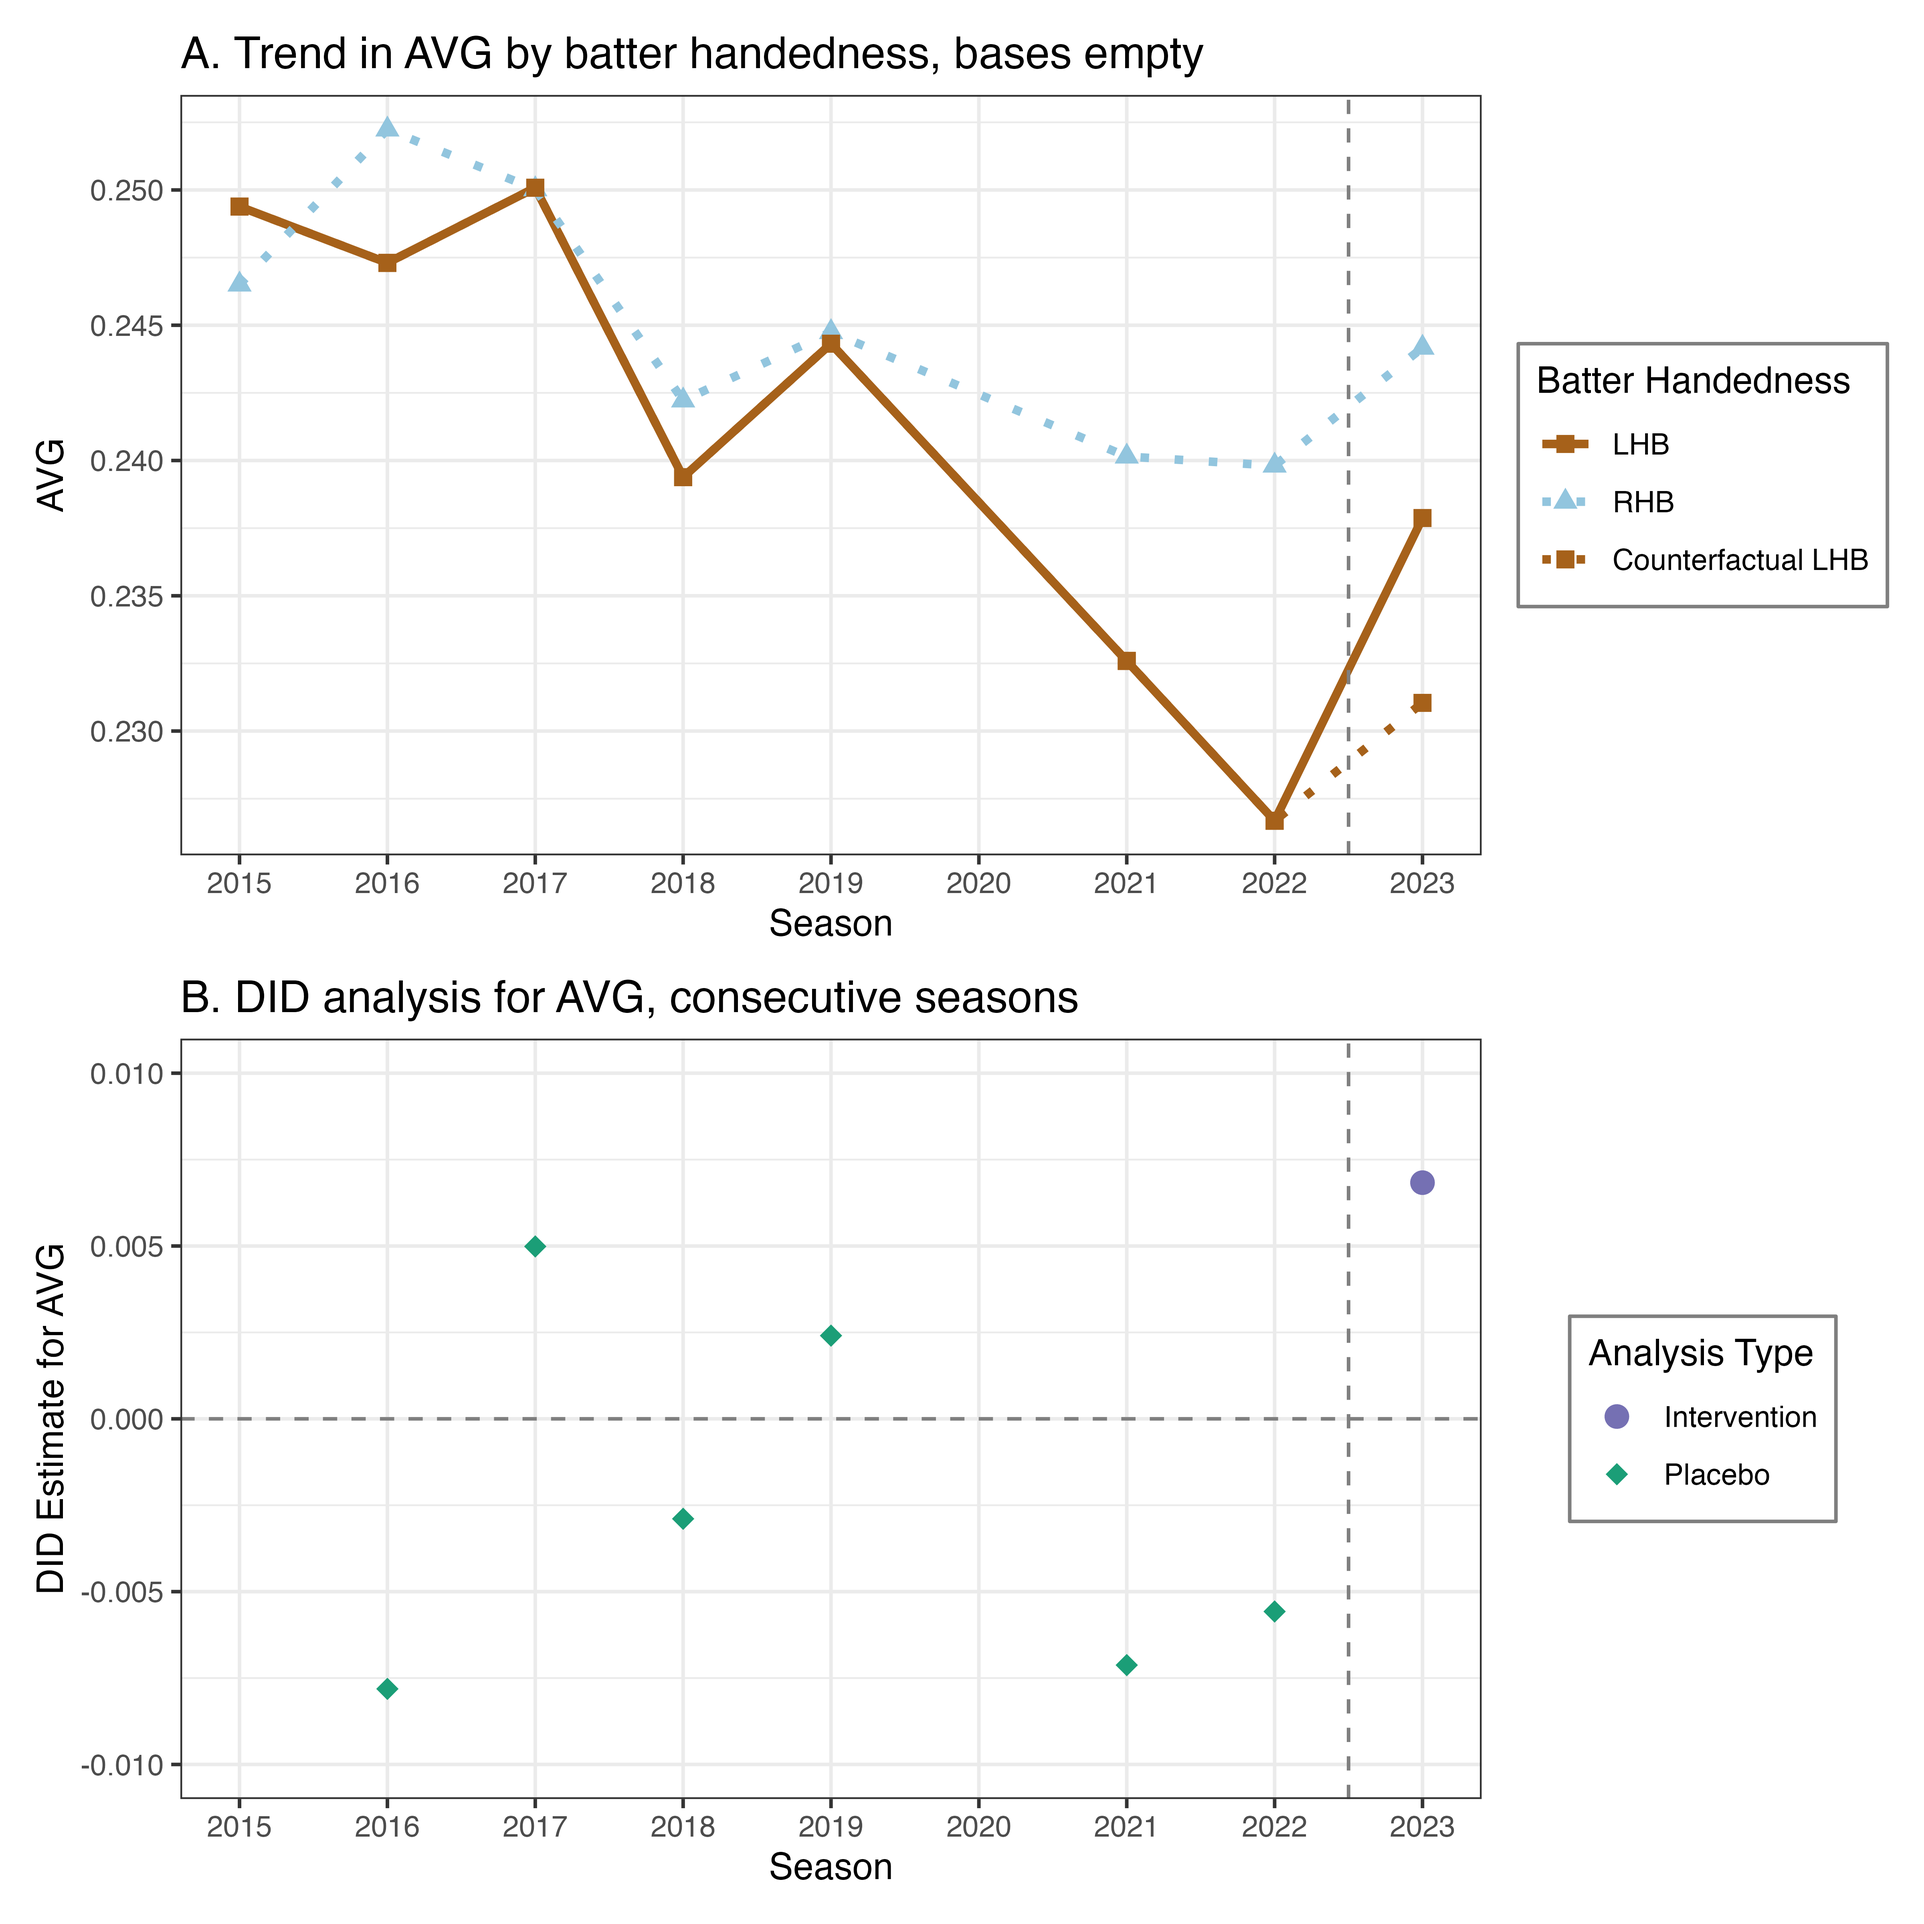
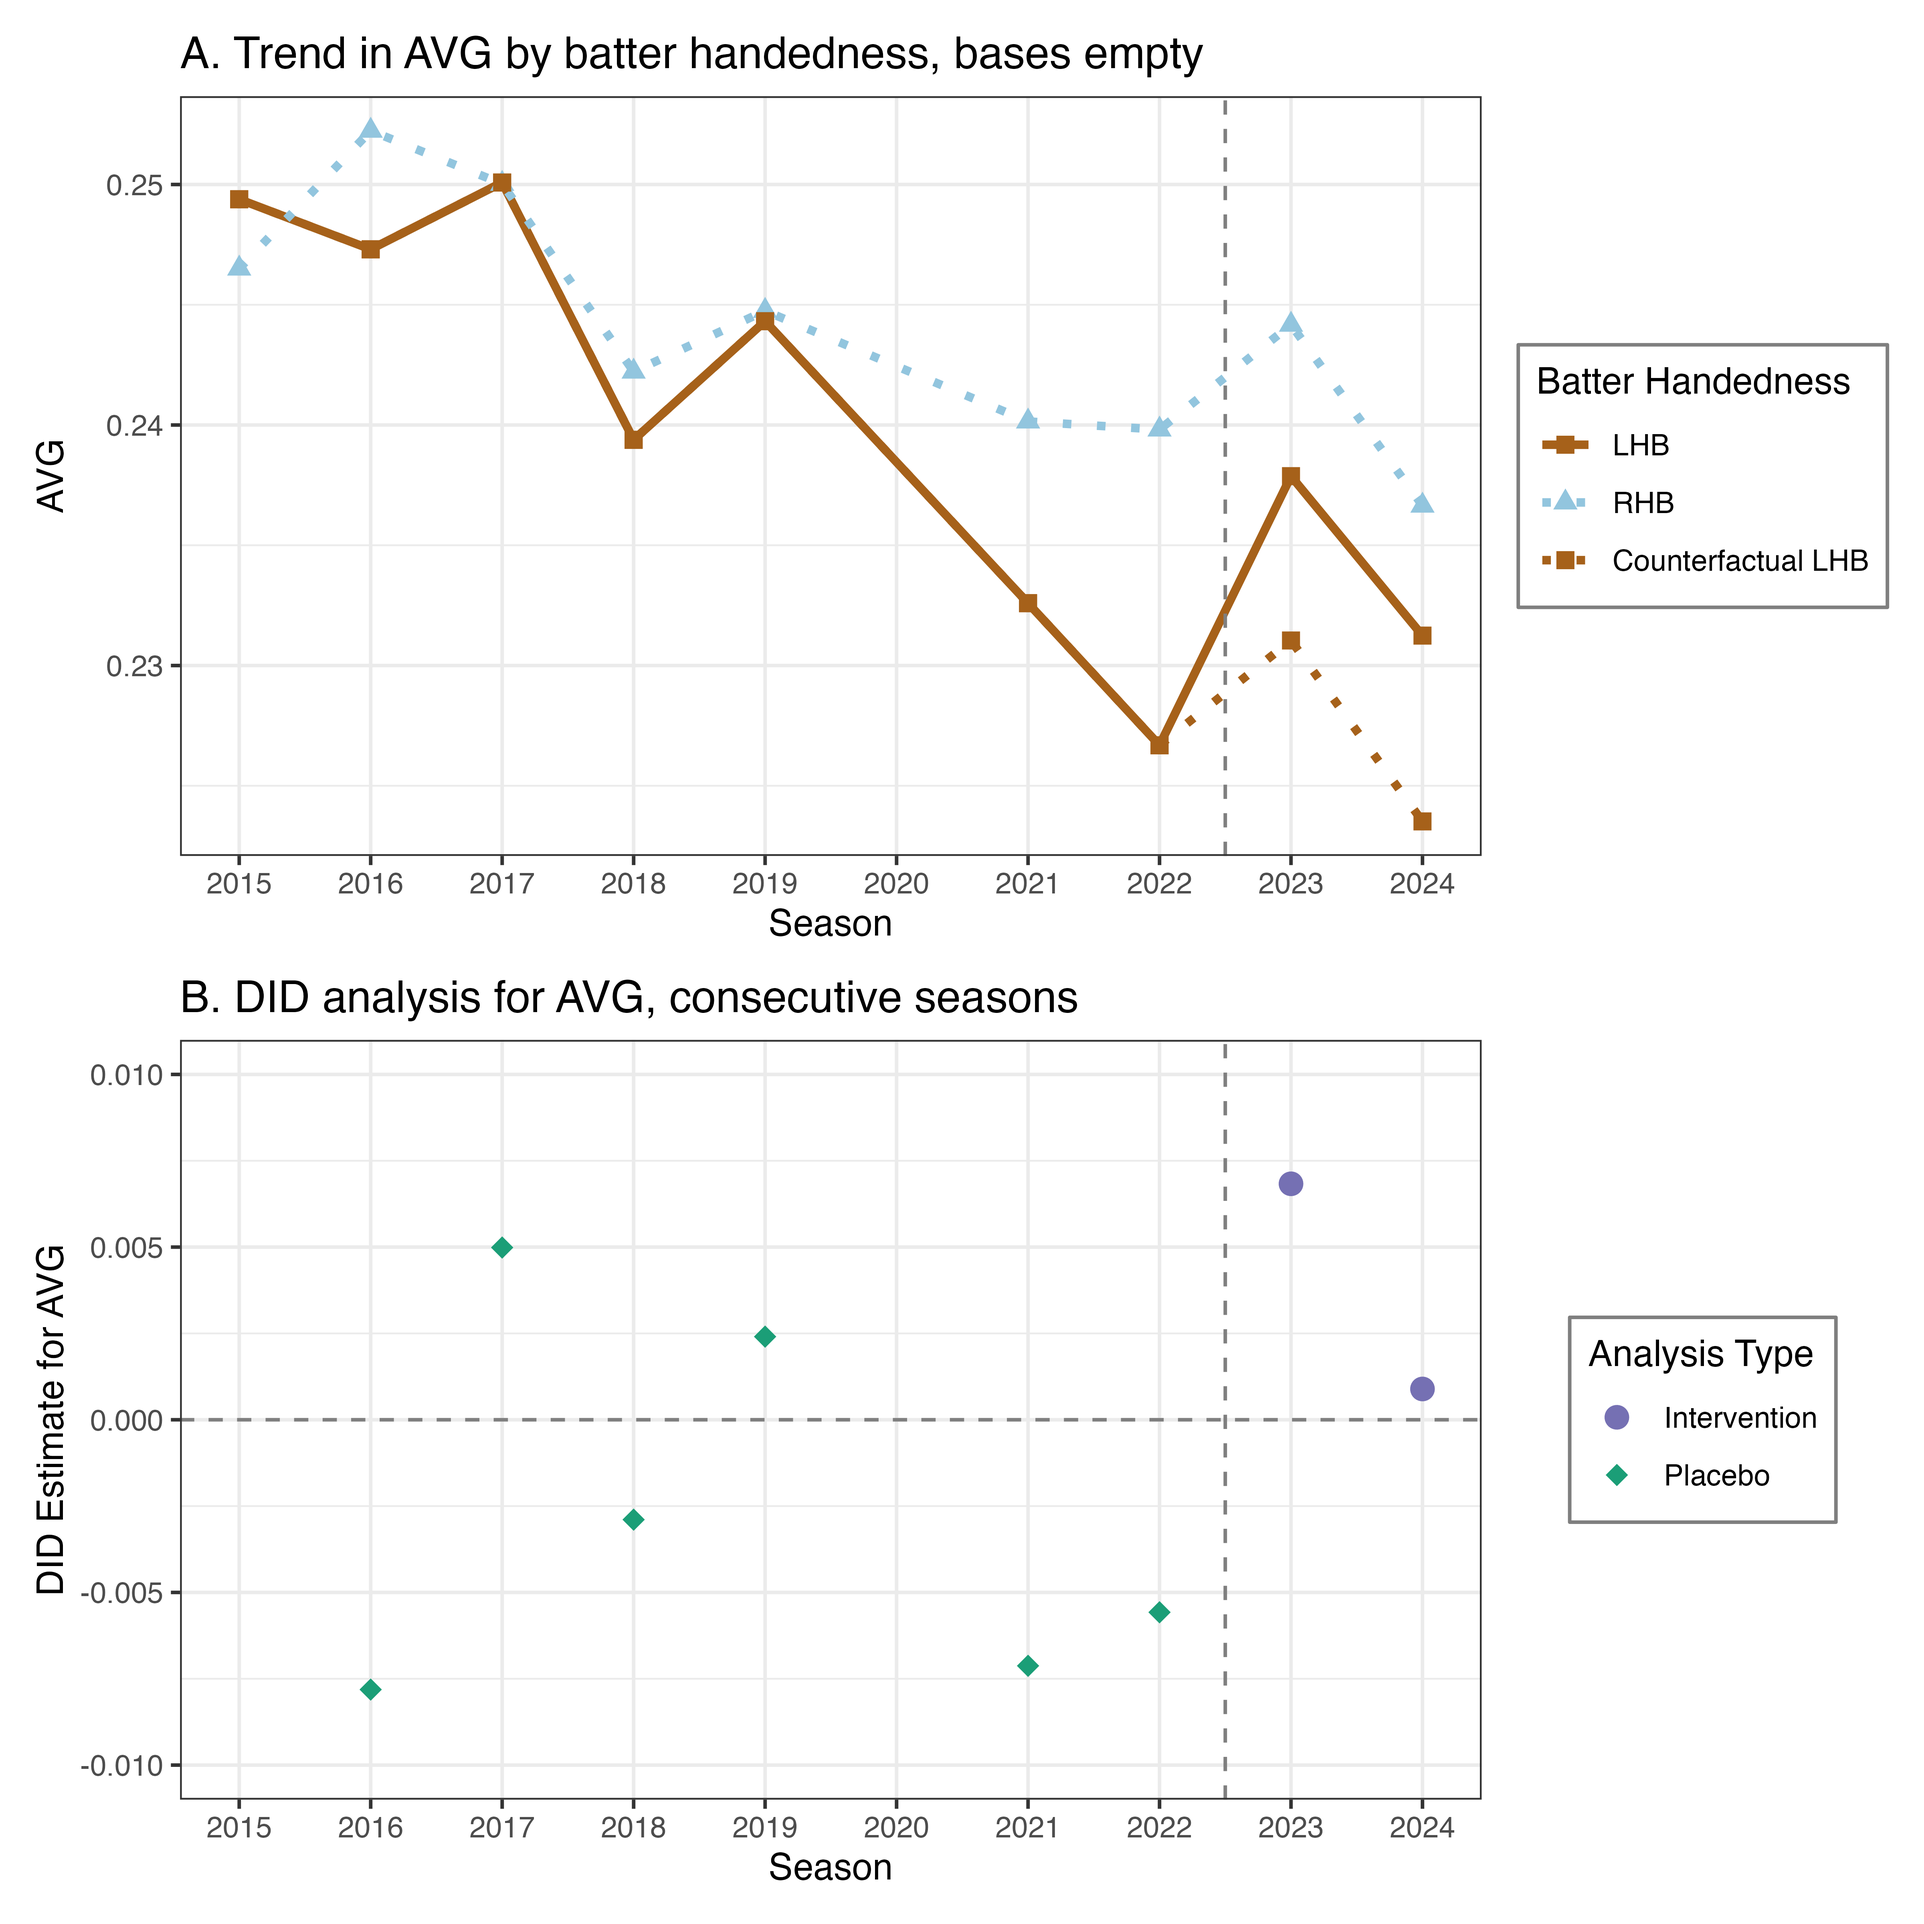
RS: updated leaguewide analyses with full 2024 season

diff --git a/data/DATA-README.md b/data/DATA-README.md
@@ -1,25 +1,25 @@
 # Data Sources and Details
 
 ## Baseball Savant Data
- - savant-custom-250PA-2015-2024.csv: Various batting statistics for players with at least 250 PA per season, for seasons 2015--2024 excluding 2020. Accessed 9/5/2024, 12pm, from https://baseballsavant.mlb.com/leaderboard/custom?year=2024%2C2023%2C2022%2C2021%2C2019%2C2018%2C2017%2C2016%2C2015&type=batter&filter=&min=250&selections=player_age%2Cab%2Cpa%2Chit%2Csingle%2Cdouble%2Ctriple%2Chome_run%2Ck_percent%2Cbb_percent%2Cbatting_avg%2Cslg_percent%2Con_base_percent%2Con_base_plus_slg%2Cbabip%2Cwoba%2Cxwoba%2Cpull_percent%2Cstraightaway_percent%2Copposite_percent%2Cbatted_ball&chart=false&x=ab&y=ab&r=no&chartType=beeswarm&sort=xwoba&sortDir=desc.
+ - savant-custom-250PA-2015-2024.csv: Various batting statistics for players with at least 250 PA per season, for seasons 2015--2024 excluding 2020. Accessed 10/21/24, 2:45pm, from https://baseballsavant.mlb.com/leaderboard/custom?year=2024%2C2023%2C2022%2C2021%2C2019%2C2018%2C2017%2C2016%2C2015&type=batter&filter=&min=250&selections=player_age%2Cab%2Cpa%2Chit%2Csingle%2Cdouble%2Ctriple%2Chome_run%2Ck_percent%2Cbb_percent%2Cbatting_avg%2Cslg_percent%2Con_base_percent%2Con_base_plus_slg%2Cbabip%2Cwoba%2Cxwoba%2Cpull_percent%2Cstraightaway_percent%2Copposite_percent%2Cbatted_ball&chart=false&x=ab&y=ab&r=no&chartType=beeswarm&sort=xwoba&sortDir=desc.
  
  - savant-custom-100PA-2020.csv: Various batting statistics for players with at least 100 PA, for 2020 season. Accessed 9/5/2024, 12pm, from https://baseballsavant.mlb.com/leaderboard/custom?year=2020&type=batter&filter=&min=100&selections=player_age%2Cab%2Cpa%2Chit%2Csingle%2Cdouble%2Ctriple%2Chome_run%2Ck_percent%2Cbb_percent%2Cbatting_avg%2Cslg_percent%2Con_base_percent%2Con_base_plus_slg%2Cbabip%2Cwoba%2Cxwoba%2Cpull_percent%2Cstraightaway_percent%2Copposite_percent%2Cbatted_ball&chart=false&x=ab&y=ab&r=no&chartType=beeswarm&sort=xwoba&sortDir=desc.
  
-  - savant-pos-250PA-XXXX.csv: Batter positioning for players with at least 50 PA with no runners on, for XXXX season, from 2016--2024. Note that 2020 uses 25 PA instead. Accessed 8/29/2024, 12:30pm, from https://baseballsavant.mlb.com/visuals/batter-positioning?playerId=545361&teamId=&opponent=&firstBase=0&shift=0&season=XXXX&attempts=50&batSide=R.
+  - savant-pos-50PA-XXXX.csv: Batter positioning for players with at least 50 PA with no runners on, for XXXX season, from 2016--2024. Note that 2020 uses 25 PA instead. Accessed 8/29/2024, 12:30pm, from https://baseballsavant.mlb.com/visuals/batter-positioning?playerId=545361&teamId=&opponent=&firstBase=0&shift=0&season=XXXX&attempts=50&batSide=R. 2024 data accessed 10/21/24 at 2:45pm.
     
     ## Fangraphs Data
-    - fg-custom-RHB-2015-2024.csv: Various batting statistics for the league as whole, by season, 2015--2024, for right-handed batters. Accessed 8/16/2024, 11am, from https://www.fangraphs.com/leaders/major-league?pos=all&season1=2015&season=2024&ind=1&hand=R&team=0%2Css&type=c%2C5%2C6%2C7%2C8%2C9%2C10%2C11%2C14%2C16%2C23%2C34%2C35%2C37%2C38%2C39%2C41%2C50%2C51%2C52%2C206%2C207%2C208&v_cr=202301&sortcol=0&sortdir=default&pagenum=1.
+    - fg-custom-RHB-2015-2024.csv: Various batting statistics for the league as whole, by season, 2015--2024, for right-handed batters. Accessed 10/21/24, 2pm, from https://www.fangraphs.com/leaders/major-league?pos=all&season1=2015&season=2024&ind=1&hand=R&team=0%2Css&type=c%2C5%2C6%2C7%2C8%2C9%2C10%2C11%2C14%2C16%2C23%2C34%2C35%2C37%2C38%2C39%2C41%2C50%2C51%2C52%2C206%2C207%2C208&v_cr=202301&sortcol=0&sortdir=default&pagenum=1.
     
-    - fg-custom-LHB-2015-2024.csv: Various batting statistics for the league as whole, by season, 2015--2024, for left-handed batters. Accessed 8/16/2024, 11am, from https://www.fangraphs.com/leaders/major-league?pos=all&season1=2015&season=2024&ind=1&hand=L&team=0%2Css&type=c%2C5%2C6%2C7%2C8%2C9%2C10%2C11%2C14%2C16%2C23%2C34%2C35%2C37%2C38%2C39%2C41%2C50%2C51%2C52%2C206%2C207%2C208&v_cr=202301&sortcol=0&sortdir=default&pagenum=1.
+    - fg-custom-LHB-2015-2024.csv: Various batting statistics for the league as whole, by season, 2015--2024, for left-handed batters. Accessed 10/21/24, 2pm, from https://www.fangraphs.com/leaders/major-league?pos=all&season1=2015&season=2024&ind=1&hand=L&team=0%2Css&type=c%2C5%2C6%2C7%2C8%2C9%2C10%2C11%2C14%2C16%2C23%2C34%2C35%2C37%2C38%2C39%2C41%2C50%2C51%2C52%2C206%2C207%2C208&v_cr=202301&sortcol=0&sortdir=default&pagenum=1.
     
-    - fg-custom-SHB-2015-2024.csv: Various batting statistics for the league as whole, by season, 2015--2024, for switch hitters. Accessed 8/16/2024, 11am, from https://www.fangraphs.com/leaders/major-league?pos=all&season1=2015&season=2024&ind=1&hand=S&team=0%2Css&type=c%2C5%2C6%2C7%2C8%2C9%2C10%2C11%2C14%2C16%2C23%2C34%2C35%2C37%2C38%2C39%2C41%2C50%2C51%2C52%2C206%2C207%2C208&v_cr=202301&sortcol=0&sortdir=default&pagenum=1.
+    - fg-custom-SHB-2015-2024.csv: Various batting statistics for the league as whole, by season, 2015--2024, for switch hitters. Accessed 10/21/24, 2pm, from https://www.fangraphs.com/leaders/major-league?pos=all&season1=2015&season=2024&ind=1&hand=S&team=0%2Css&type=c%2C5%2C6%2C7%2C8%2C9%2C10%2C11%2C14%2C16%2C23%2C34%2C35%2C37%2C38%2C39%2C41%2C50%2C51%2C52%2C206%2C207%2C208&v_cr=202301&sortcol=0&sortdir=default&pagenum=1.
     
-     - fg-custom-LHB-empty-2015-2024.csv: Standard batting statistics for the league as a whole, by season, 2015--2024, for left-handed hitters with the bases empty. Accessed 8/29/2024, 10am, from https://www.fangraphs.com/leaders/splits-leaderboards?splitArr=57,3&splitArrPitch=&autoPt=false&splitTeams=false&statType=mlb&statgroup=1&startDate=2015-03-01&endDate=2024-11-01&players=&filter=&groupBy=season&wxTemperature=&wxPressure=&wxAirDensity=&wxElevation=&wxWindSpeed=&position=B&sort=23,1
+     - fg-custom-LHB-empty-2015-2024.csv: Standard batting statistics for the league as a whole, by season, 2015--2024, for left-handed hitters with the bases empty. Accessed 10/21/24, 2pm, from https://www.fangraphs.com/leaders/splits-leaderboards?splitArr=57,3&splitArrPitch=&autoPt=false&splitTeams=false&statType=mlb&statgroup=1&startDate=2015-03-01&endDate=2024-11-01&players=&filter=&groupBy=season&wxTemperature=&wxPressure=&wxAirDensity=&wxElevation=&wxWindSpeed=&position=B&sort=23,1
      
-      - fg-custom-RHB-empty-2015-2024.csv: Standard batting statistics for the league as a whole, by season, 2015--2024, for right-handed hitters with the bases empty. Accessed 8/29/2024, 10am, from https://www.fangraphs.com/leaders/splits-leaderboards?splitArr=57,4&splitArrPitch=&autoPt=false&splitTeams=false&statType=mlb&statgroup=1&startDate=2015-03-01&endDate=2024-11-01&players=&filter=&groupBy=season&wxTemperature=&wxPressure=&wxAirDensity=&wxElevation=&wxWindSpeed=&position=B&sort=23,1
+      - fg-custom-RHB-empty-2015-2024.csv: Standard batting statistics for the league as a whole, by season, 2015--2024, for right-handed hitters with the bases empty. Accessed 10/21/24, 2pm, from https://www.fangraphs.com/leaders/splits-leaderboards?splitArr=57,4&splitArrPitch=&autoPt=false&splitTeams=false&statType=mlb&statgroup=1&startDate=2015-03-01&endDate=2024-11-01&players=&filter=&groupBy=season&wxTemperature=&wxPressure=&wxAirDensity=&wxElevation=&wxWindSpeed=&position=B&sort=23,1
       
-      - fg-custom-LHB-empty-adv-2015-2024.csv: Advanced batting statistics for the league as a whole, by season, 2015--2024, for left-handed hitters with the bases empty. Accessed 8/29/2024, 10am, from https://www.fangraphs.com/leaders/splits-leaderboards?splitArr=57,3&splitArrPitch=&autoPt=false&splitTeams=false&statType=mlb&statgroup=2&startDate=2015-03-01&endDate=2024-11-01&players=&filter=&groupBy=season&wxTemperature=&wxPressure=&wxAirDensity=&wxElevation=&wxWindSpeed=&position=B&sort=23,1
+      - fg-custom-LHB-empty-adv-2015-2024.csv: Advanced batting statistics for the league as a whole, by season, 2015--2024, for left-handed hitters with the bases empty. Accessed 10/21/24, 2pm, from https://www.fangraphs.com/leaders/splits-leaderboards?splitArr=57,3&splitArrPitch=&autoPt=false&splitTeams=false&statType=mlb&statgroup=2&startDate=2015-03-01&endDate=2024-11-01&players=&filter=&groupBy=season&wxTemperature=&wxPressure=&wxAirDensity=&wxElevation=&wxWindSpeed=&position=B&sort=23,1
      
-      - fg-custom-RHB-empty-adv-2015-2024.csv: Advanced batting statistics for the league as a whole, by season, 2015--2024, for right-handed hitters with the bases empty. Accessed 8/29/2024, 10am, from https://www.fangraphs.com/leaders/splits-leaderboards?splitArr=57,4&splitArrPitch=&autoPt=false&splitTeams=false&statType=mlb&statgroup=2&startDate=2015-03-01&endDate=2024-11-01&players=&filter=&groupBy=season&wxTemperature=&wxPressure=&wxAirDensity=&wxElevation=&wxWindSpeed=&position=B&sort=23,1
+      - fg-custom-RHB-empty-adv-2015-2024.csv: Advanced batting statistics for the league as a whole, by season, 2015--2024, for right-handed hitters with the bases empty. Accessed 10/21/24, 2pm, from https://www.fangraphs.com/leaders/splits-leaderboards?splitArr=57,4&splitArrPitch=&autoPt=false&splitTeams=false&statType=mlb&statgroup=2&startDate=2015-03-01&endDate=2024-11-01&players=&filter=&groupBy=season&wxTemperature=&wxPressure=&wxAirDensity=&wxElevation=&wxWindSpeed=&position=B&sort=23,1
     
     
